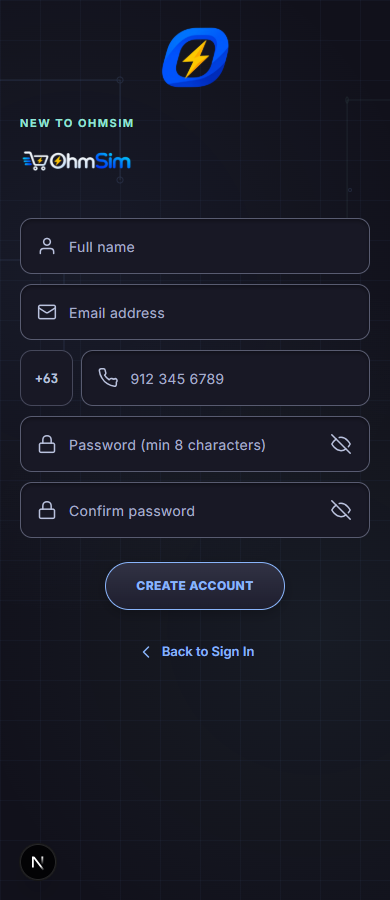
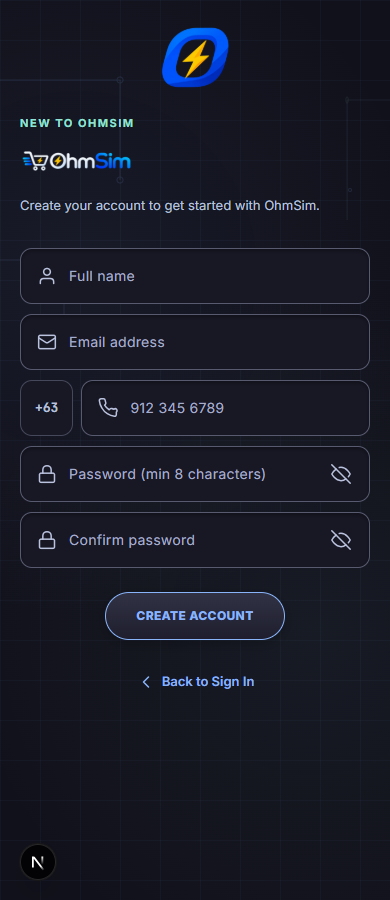
fix: add approved auth form instructions

diff --git a/app/login/auth-experience.tsx b/app/login/auth-experience.tsx
@@ -13,6 +13,11 @@ type FieldName = "fullName" | "email" | "contactNumber" | "password" | "confirmP
 type Fields = Record<FieldName, string>;
 const emptyFields: Fields = { fullName: "", email: "", contactNumber: "", password: "", confirmPassword: "" };
 const headings: Record<View, string> = { signin: "WELCOME BACK", register: "NEW TO OHMSIM", forgot: "ACCOUNT RECOVERY" };
+const descriptions: Record<View, string> = {
+  signin: "Sign in to your OhmSim account.",
+  register: "Create your account to get started with OhmSim.",
+  forgot: "Enter your email and we'll send you a reset link.",
+};
 const emailValid = (value: string) => /^[^\s@]+@[^\s@]+\.[^\s@]+$/.test(value.trim());
 
 function validation(view: View, values: Fields): Partial<Record<FieldName, string>> {
@@ -127,7 +132,7 @@ export function AuthExperience() {
             <Link href="/" aria-label="OhmSim — back to landing page" className={styles.brand}>
               <Image src="/logos/ohmsim-logo.png" alt="OhmSim" width={2172} height={724} className={view === "signin" ? styles.wordmarkLarge : styles.wordmark} priority />
             </Link>
-            {view === "forgot" && <p className={styles.description}>Enter your email and we&apos;ll send you a reset link.</p>}
+            <p className={styles.description}>{descriptions[view]}</p>
           </div>
           {resetEmail ? <Surface className={styles.resetSuccess} role="status">
             <span className={styles.resetIcon}><AuthIcon name="check" /></span>

diff --git a/docs/design/auth/AUTH_IMPLEMENTATION_REVIEW.md b/docs/design/auth/AUTH_IMPLEMENTATION_REVIEW.md
@@ -47,7 +47,7 @@
 
 - ACCOUNT RECOVERY, source description, email, SEND RESET LINK, and Back to Sign In.
 - Valid submission displays the reference "Reset link sent!" and "Check your inbox at <email>" presentation, together with the explicit notice "Prototype state only — no email was sent."
-- Per PM review, the developer-only introductory preview/sample-details notice is removed from all three views. The approved headings, wordmark, fields, and recovery instructions remain without replacement filler. Submission feedback still accurately discloses the deferred backend behavior.
+- Per PM review, the developer-only introductory preview/sample-details notice is removed from all three views. PM subsequently approved user-facing instructions: "Sign in to your OhmSim account." and "Create your account to get started with OhmSim." The existing recovery instruction remains unchanged. Submission feedback still accurately discloses the deferred backend behavior.
 
 ### Interaction and accessibility
 
@@ -103,6 +103,8 @@ After the PM reported saved-browser credentials appearing, removed personal-data
 ### Introductory copy follow-up
 
 Removed the developer-only preview notice per PM request, preserving the approved form copy without filler. Lint, TypeScript, whitespace checks, and all 84 browser assertions passed on port 3000, including absence of the notice in every view at six viewport widths. Review screenshots were refreshed from this development preview.
+
+PM then approved permanent Sign In and Create Account instructions, rendered using the existing description treatment above the fields. Recovery copy is unchanged. Lint, TypeScript, whitespace checks, and all 102 browser assertions passed, including visibility of the approved instructions across all tested sizes. Screenshots were refreshed again.
 
 ## Explicit deferrals and limitations
 
